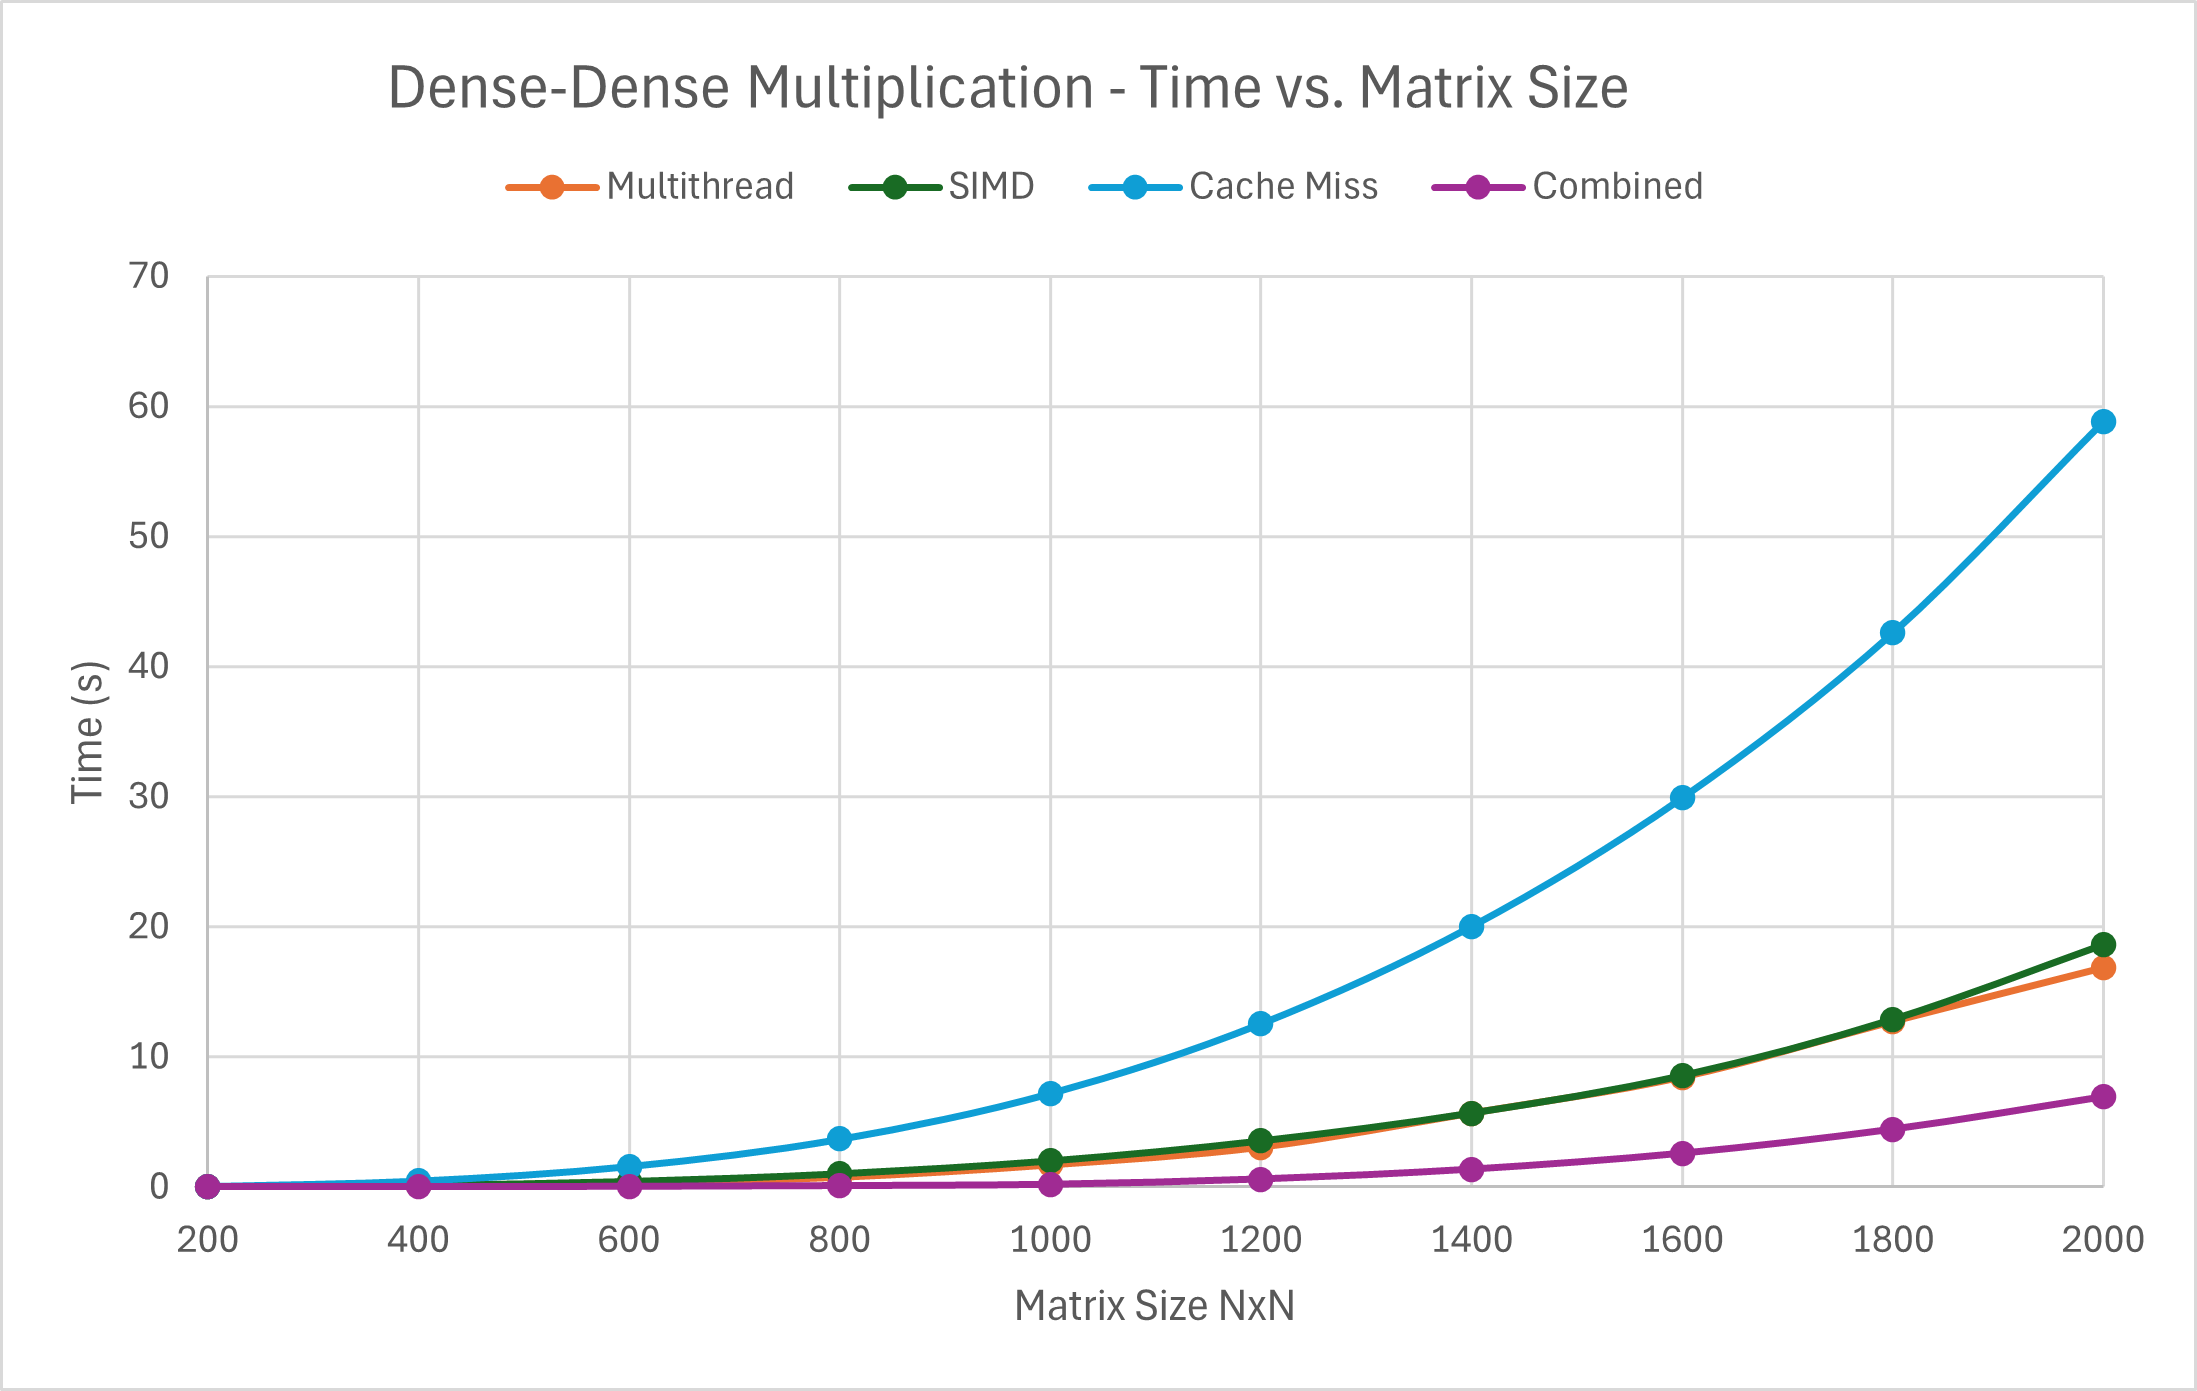
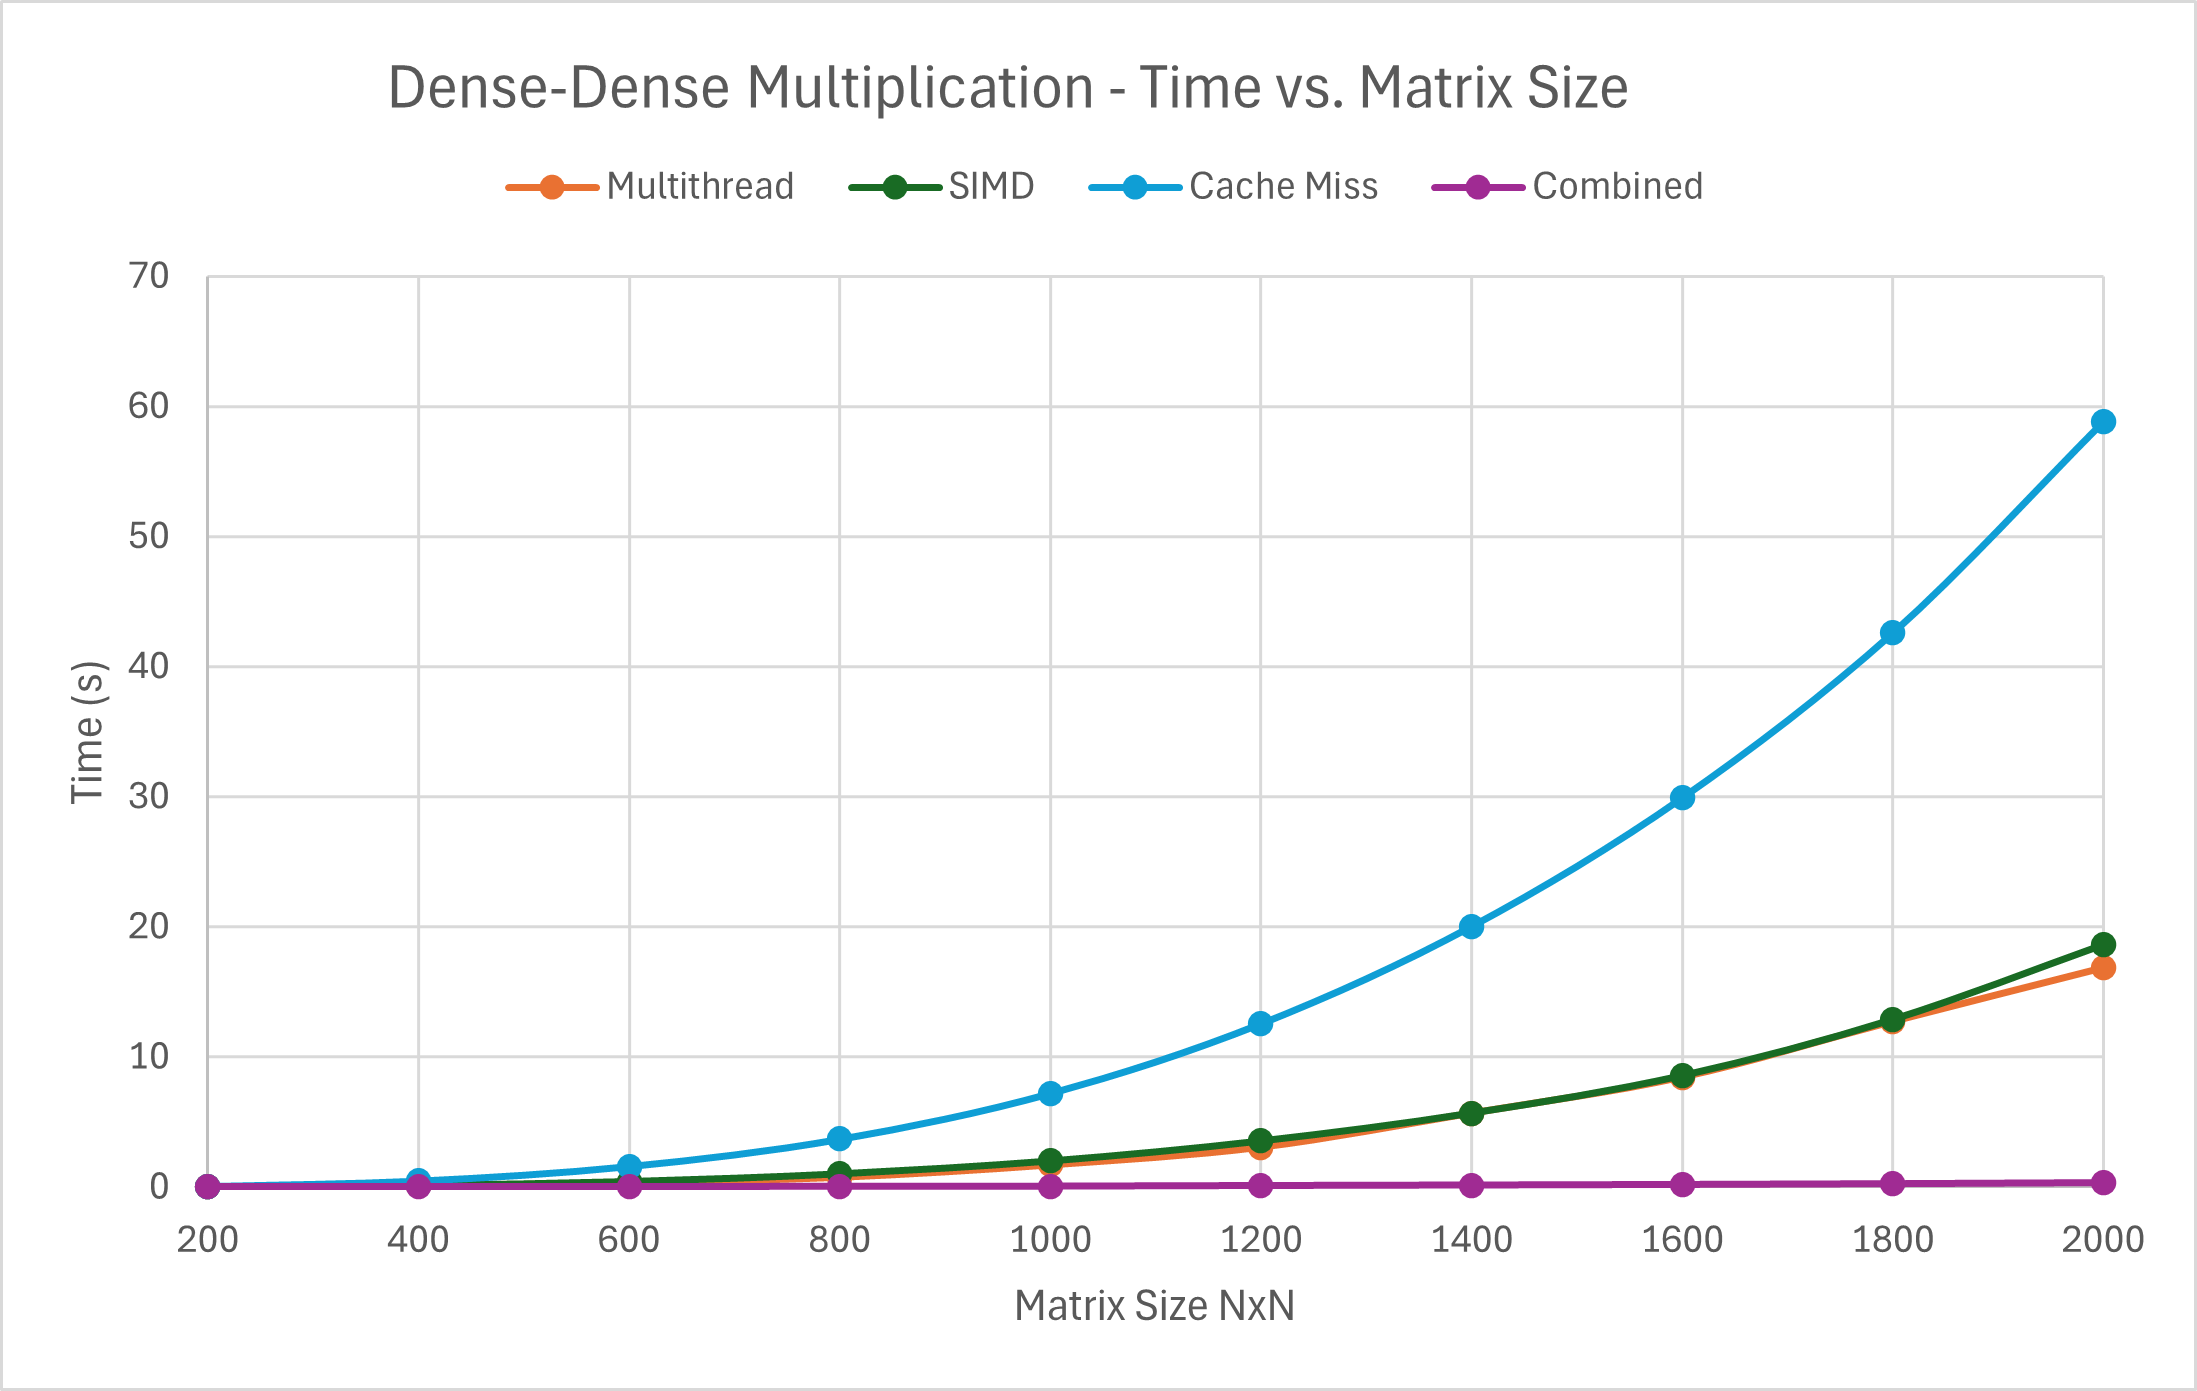
fixes to combined method

Changed region(s): [[0.4643, 0.8037, 0.9595, 0.8656], [0.8976, 0.7728, 0.9595, 0.8037]]

diff --git a/docs/Project-2/results.md b/docs/Project-2/results.md
@@ -228,38 +228,38 @@ This combination implementation uses loop blocking, SIMD, and multithreading.
 Case 3: Sparse-Sparse Multiplication        Case 2: Dense-Sparse Multiplication         Case 1: Dense-Dense Multiplication
 
 ---------- Sparsity 10% ----------          ---------- Sparsity 10% ----------          
-1000    Time taken: 0.153361 s              500     Time taken: 0.0115527 s             200     Time taken: 0.00229349 s
-2000    Time taken: 0.578507 s              1000    Time taken: 0.0108954 s             400     Time taken: 0.00635556 s
-3000    Time taken: 1.35759 s               1500    Time taken: 0.031387 s              600     Time taken: 0.0287668 s
-4000    Time taken: 2.31637 s               2000    Time taken: 0.0689016 s             800     Time taken: 0.0838435 s
-5000    Time taken: 3.75233 s               2500    Time taken: 0.136175 s              1000    Time taken: 0.18758 s
-6000    Time taken: 5.31503 s               3000    Time taken: 0.279876 s              1200    Time taken: 0.598489 s
-7000    Time taken: 9.49456 s                                                     1400    Time taken: 1.3578 s
-8000    Time taken: 8.96483 s                                                     1600    Time taken: 2.58808 s
-9000    Time taken: 15.92 s                                                     1800    Time taken: 4.43944 s
-10000   Time taken: 21.4441 s                                                     2000    Time taken: 6.93806 s
+1000    Time taken: 0.0500951 s             500     Time taken: 0.0115527 s             200     Time taken: 0.00111633 s
+2000    Time taken: 0.0751144 s             1000    Time taken: 0.0108954 s             400     Time taken: 0.00894011 s
+3000    Time taken: 0.204151 s              1500    Time taken: 0.031387 s              600     Time taken: 0.0142791 s
+4000    Time taken: 0.266475 s              2000    Time taken: 0.0689016 s             800     Time taken: 0.0250555 s
+5000    Time taken: 0.749967 s              2500    Time taken: 0.136175 s              1000    Time taken: 0.0394458 s
+6000    Time taken: 0.826338 s              3000    Time taken: 0.279876 s              1200    Time taken: 0.0873932 s
+7000    Time taken: 1.35978 s                                                           1400    Time taken: 0.125216 s
+8000    Time taken: 1.9462 s                                                            1600    Time taken: 0.168141 s
+9000    Time taken: 3.39149 s                                                           1800    Time taken: 0.225785 s
+10000   Time taken: 4.30134 s                                                           2000    Time taken: 0.304109 s
 ---------- Sparsity 1% ----------           ---------- Sparsity 1% ----------       
-1000    Time taken: 0.0170954 s             500     Time taken: 0.000586495 s       
-2000    Time taken: 0.121548 s              1000    Time taken: 0.0032973 s         
-3000    Time taken: 0.343061 s              1500    Time taken: 0.0161029 s         
-4000    Time taken: 0.985372 s              2000    Time taken: 0.0203805 s         
-5000    Time taken: 1.75422 s               2500    Time taken: 0.0329092 s         
-6000    Time taken: 2.70638 s               3000    Time taken: 0.0469931 s         
-7000    Time taken: 3.82422 s         
-8000    Time taken: 5.48159 s         
-9000    Time taken: 7.38803 s         
-10000   Time taken: 10.9584 s         
+1000    Time taken: 0.00577733 s            500     Time taken: 0.000586495 s       
+2000    Time taken: 0.0171185 s             1000    Time taken: 0.0032973 s         
+3000    Time taken: 0.0329077 s             1500    Time taken: 0.0161029 s         
+4000    Time taken: 0.0758188 s             2000    Time taken: 0.0203805 s         
+5000    Time taken: 0.162605 s              2500    Time taken: 0.0329092 s         
+6000    Time taken: 0.21192 s               3000    Time taken: 0.0469931 s         
+7000    Time taken: 0.366394 s   
+8000    Time taken: 0.702776 s   
+9000    Time taken: 0.72885 s   
+10000   Time taken: 0.884248 s   
 ---------- Sparsity 0.1% ----------         ---------- Sparsity 0.1% ----------
-1000    Time taken: 0.00816487 s            500     Time taken: 0.000515271 s
-2000    Time taken: 0.00618787 s            1000    Time taken: 0.00805832 s
-3000    Time taken: 0.0100863 s             1500    Time taken: 0.00634668 s
-4000    Time taken: 0.0163837 s             2000    Time taken: 0.011154 s
-5000    Time taken: 0.0278282 s             2500    Time taken: 0.0233201 s
-6000    Time taken: 0.0615856 s             3000    Time taken: 0.0270084 s
-7000    Time taken: 0.0772387 s         
-8000    Time taken: 0.0919205 s         
-9000    Time taken: 0.123467 s         
-10000   Time taken: 0.178473 s         
+1000    Time taken: 0.00584964 s            500     Time taken: 0.000515271 s
+2000    Time taken: 0.000668794 s           1000    Time taken: 0.00805832 s
+3000    Time taken: 0.00130187 s            1500    Time taken: 0.00634668 s
+4000    Time taken: 0.00811603 s            2000    Time taken: 0.011154 s
+5000    Time taken: 0.00983578 s            2500    Time taken: 0.0233201 s
+6000    Time taken: 0.0106066 s             3000    Time taken: 0.0270084 s
+7000    Time taken: 0.0104132 s     
+8000    Time taken: 0.014773 s     
+9000    Time taken: 0.0260622 s    
+10000   Time taken: 0.0215956 s    
 ```
 ![combined opt dense-dense matrix multiplication graph of time vs matrix size]({{ site.url }}/assets/images/proj-2/combined-dense-dense.png)
 ![combined opt dense-sparse matrix multiplication graph of time vs matrix size]({{ site.url }}/assets/images/proj-2/combined-dense-sparse.png)
@@ -286,7 +286,6 @@ For all dense-dense and dense-sparse matrix multiplication, the combination impl
 ![all methods sparse-sparse 10% sparsity comparison]({{ site.url }}/assets/images/proj-2/sparse-sparse-comp-all-0.1.png)
 ![all methods sparse-sparse 1% sparsity comparison]({{ site.url }}/assets/images/proj-2/sparse-sparse-comp-all-0.01.png)
 ![all methods sparse-sparse 0.1% sparsity comparison]({{ site.url }}/assets/images/proj-2/sparse-sparse-comp-all-0.001.png)
-The combined implementation is unexpectedly the worst performing method for 1% sparcity in sparse-sparse matrix multiplication, but not 0.1% sparcity. This variation can likely be attributed to randomness of non-zero element allocations and/or the combined overhead of multithreading, SIMD, and nested loops as mentioned above.
 
 
 ## Citations
